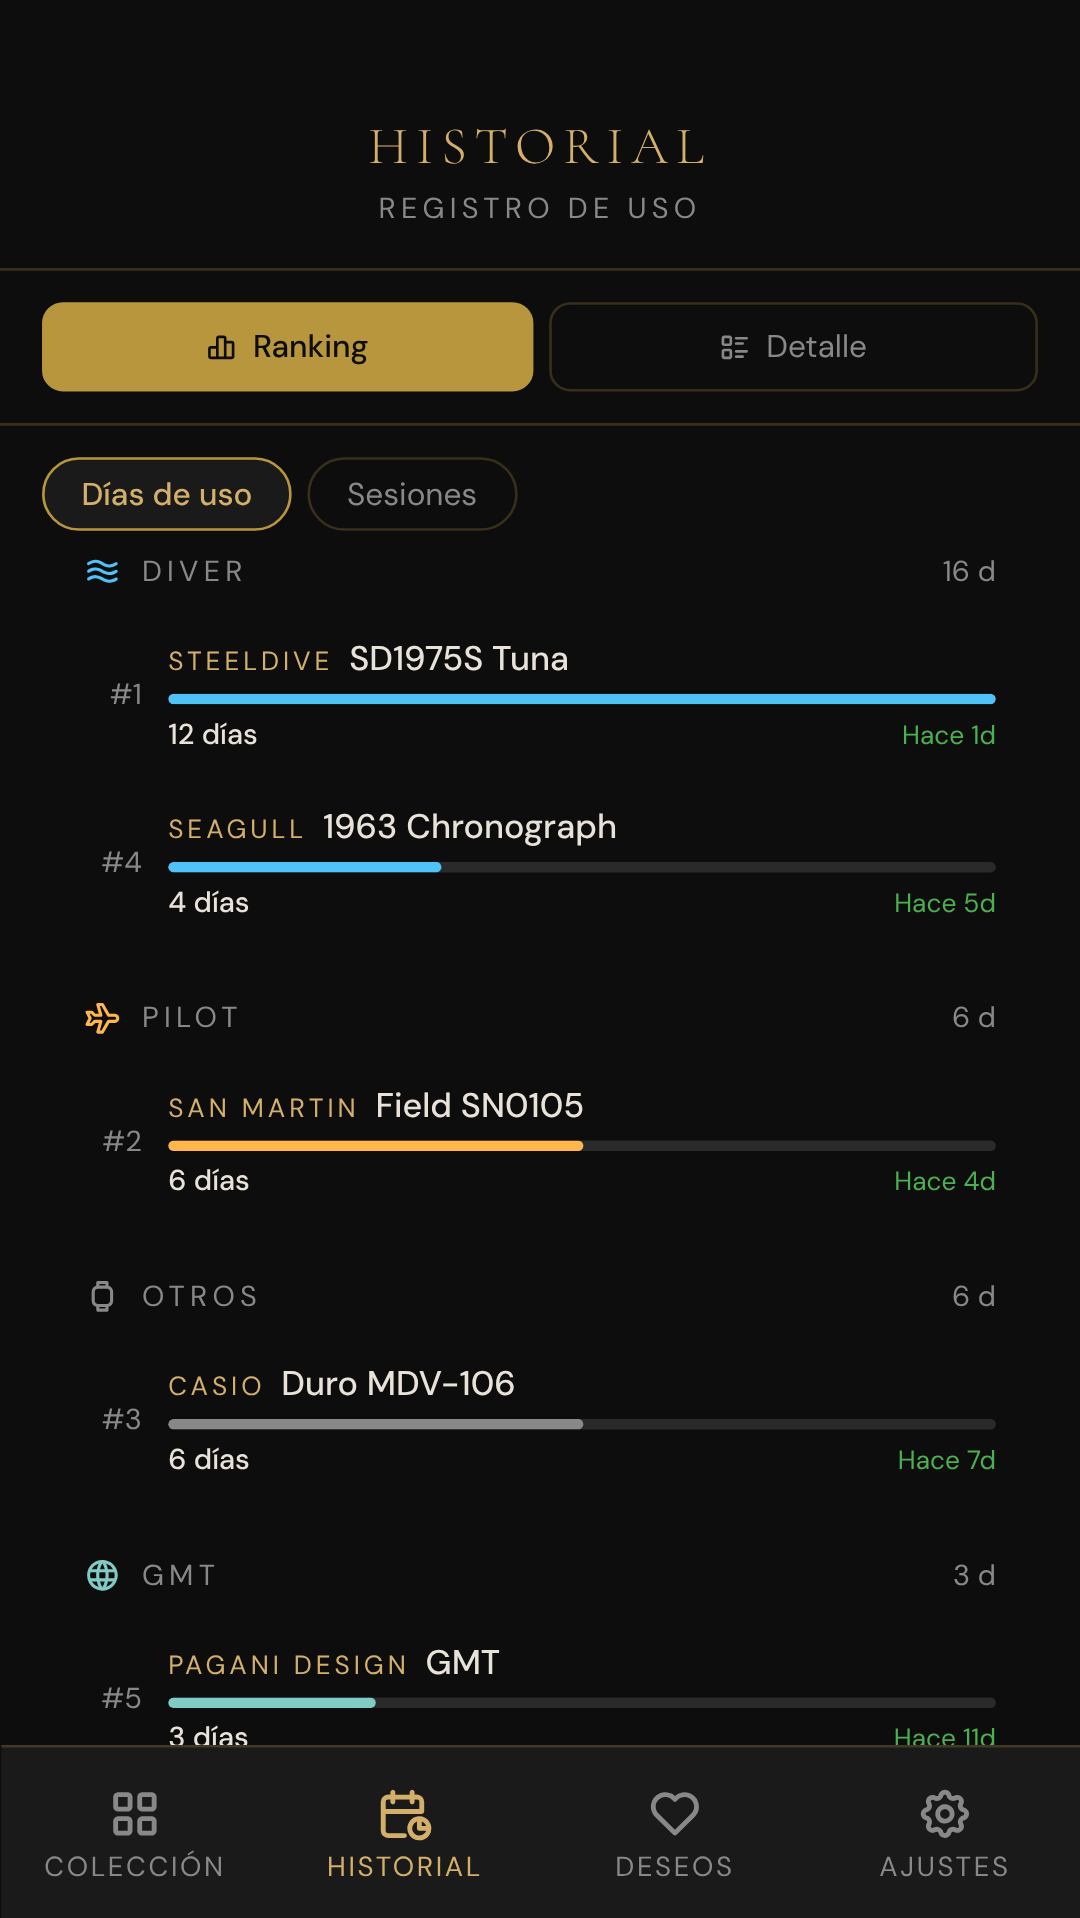
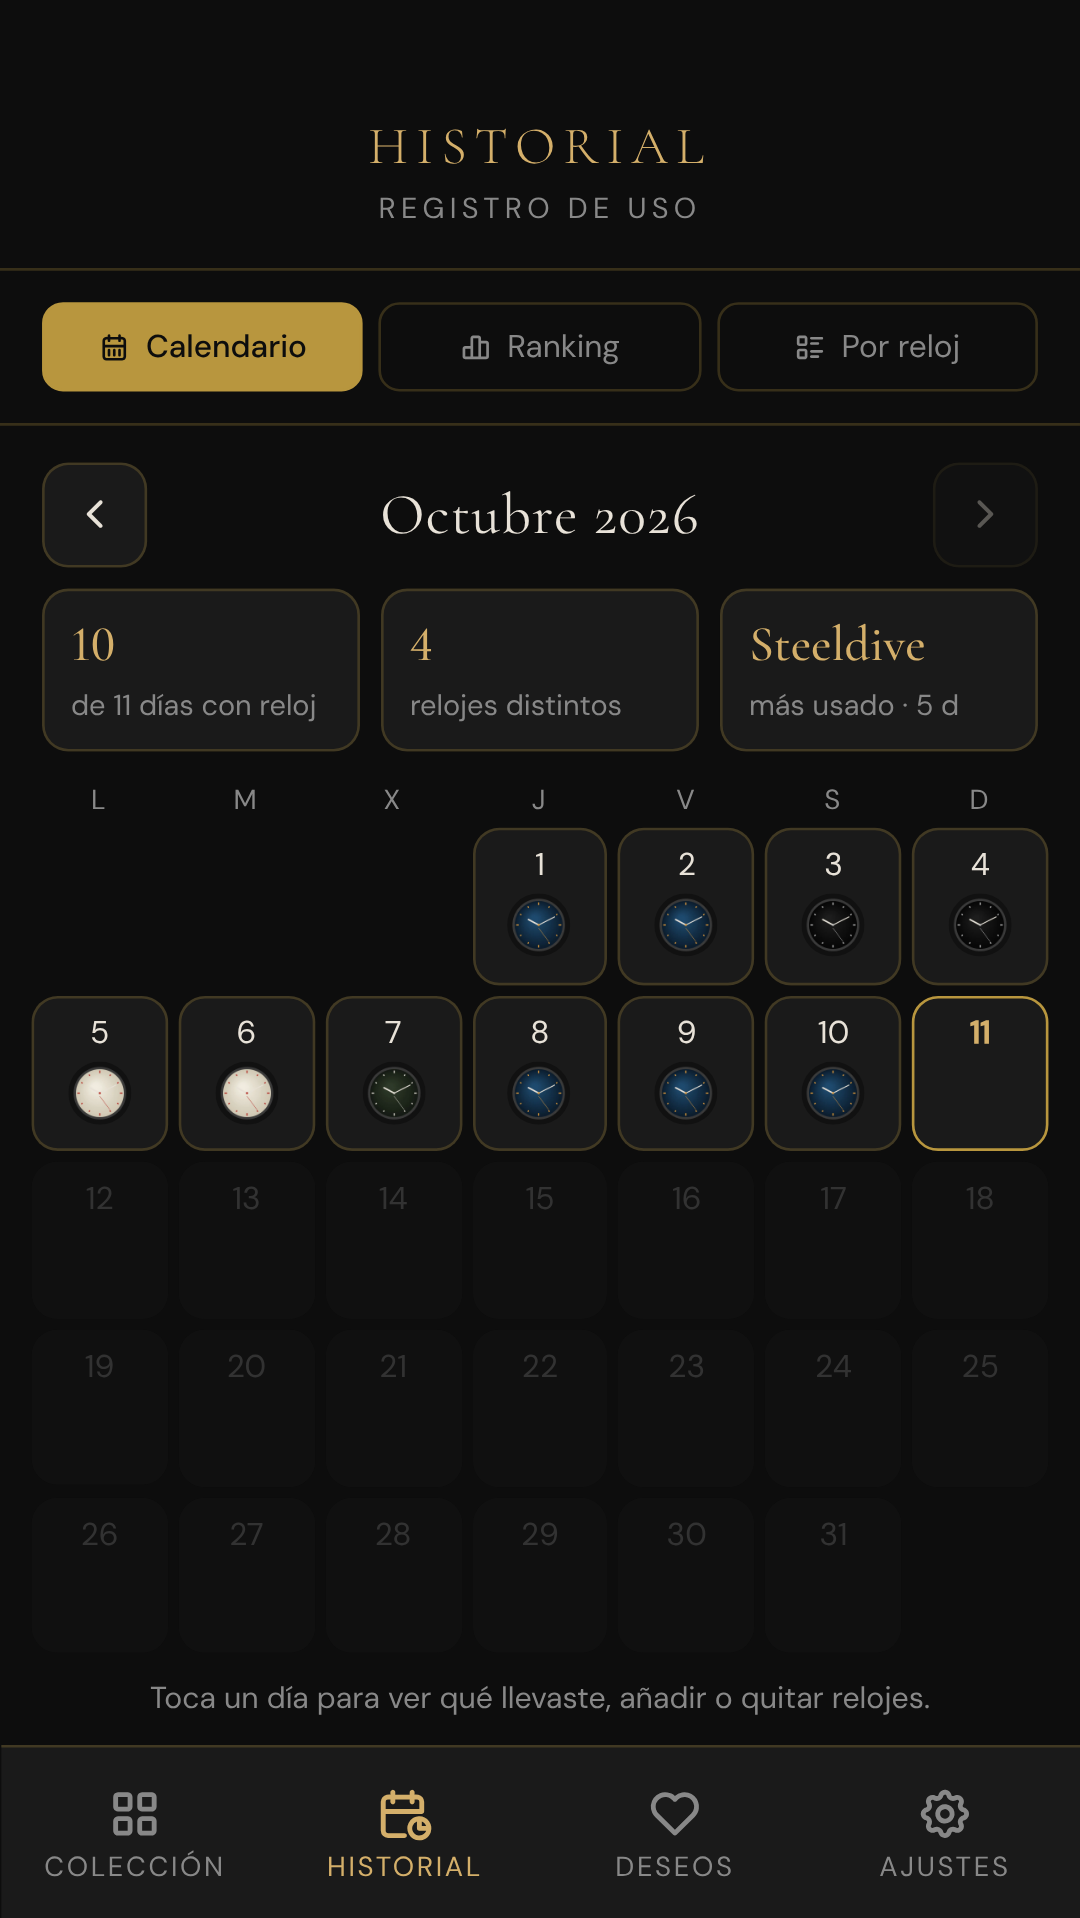
release: v2.5.0
Privacidad y seguridad de datos actualizadas para «Rellenar desde un
enlace» (Groq como proveedor), README del Worker v12, capturas de Play
con el calendario y CI con la nueva batería de pruebas.

Claude-Session: https://claude.ai/code/session_01Srs5XVbJ5hBmUFD4MyUTpg

diff --git a/privacidad.html b/privacidad.html
@@ -30,7 +30,7 @@
 <body>
 <main>
   <h1>Privacidad</h1>
-  <div class="meta">Rotor (antes Horlogerie) · Última actualización: 11 de octubre de 2026</div>
+  <div class="meta">Rotor (antes Horlogerie) · Última actualización: 11 de octubre de 2026 (v2.5)</div>
 
   <div class="box">
     <p><strong>En resumen:</strong> tu colección se guarda en tu dispositivo. Solo sale de él si activas la «Copia en la nube», y en ese caso se guarda cifrada en tránsito en Cloudflare para que puedas usarla en otros dispositivos. No hay cuentas, ni publicidad, ni analítica, ni venta de datos. Puedes borrar tus datos de la nube desde la propia app.</p>
@@ -61,8 +61,11 @@
     <li><strong>Transferencias internacionales:</strong> Cloudflare puede tratar datos fuera del Espacio Económico Europeo con las garantías de sus cláusulas contractuales tipo.</li>
   </ul>
 
+  <h2>Rellenar desde un enlace</h2>
+  <p>Si usas «Rellenar desde un enlace», el enlace que pegas (o el texto de la ficha que pegas) se envía a nuestro servicio en Cloudflare, que descarga esa página pública y manda su texto a <strong>Groq, Inc.</strong> (EE. UU.), un servicio de inteligencia artificial que extrae las especificaciones técnicas. No se envía nada de tu colección, tus fotos ni tu ID. El resultado de cada enlace se guarda 30 días en caché para no repetir la consulta. Si no usas esta función, no se envía nada.</p>
+
   <h2>Terceros</h2>
-  <p>La app no carga nada de servicios externos: fuentes, iconos y librerías van incluidos en la propia app. El código QR de tu ID se genera en tu dispositivo. No hay SDK de publicidad ni de analítica.</p>
+  <p>Fuera de las dos funciones opcionales descritas (copia en la nube y rellenar desde un enlace), la app no se comunica con servicios externos: fuentes, iconos y librerías van incluidos en la propia app. El código QR de tu ID se genera en tu dispositivo. No hay SDK de publicidad ni de analítica.</p>
 
   <h2>Copias de seguridad</h2>
   <p>«Copia de seguridad (JSON)» crea un archivo en tu dispositivo con tus datos y fotos. Ese archivo queda bajo tu control: la app no lo envía a ningún sitio.</p>

diff --git a/js/modules/updates.js b/js/modules/updates.js
@@ -1,4 +1,4 @@
-const APP_VERSION = '2.4.0'; // Must match version.json
+const APP_VERSION = '2.5.0'; // Must match version.json
 
 async function initVersionCheck() {
   // Hidden legacy elements kept for backward compatibility with other modules

diff --git a/tools/play-screenshots.py b/tools/play-screenshots.py
@@ -85,7 +85,7 @@ async def main():
         await page.evaluate("document.getElementById('view-detail').scrollTop = 150")
         await page.wait_for_timeout(200)
         await shot("2-ficha")
-        await page.evaluate("showView('history'); setHistoryMode('ranking')"); await page.wait_for_timeout(300)
+        await page.evaluate("showView('history'); setHistoryMode('calendar')"); await page.wait_for_timeout(300)
         await shot("3-historial")
         await page.evaluate(f"showView('history'); setHistoryMode('detail'); historySelectedWatch = '{ids['a']}'; historySelectedYear = null; renderHistoryDetail()")
         await page.wait_for_timeout(300)

diff --git a/README.md b/README.md
@@ -103,10 +103,12 @@ Secretos (Cloudflare → Workers → horlogerie → Settings → Variables and S
 
 | Variable | Uso | Obligatoria |
 |---|---|---|
-| `GROQ_API_KEY` | `/import-url` (hoy desactivada en la app) | No: desde la v11 la sincronización funciona sin ella |
+| `GROQ_API_KEY` | `/import-url` («Rellenar desde un enlace») | Solo para esa función; la sincronización funciona sin ella |
 | `EBAY_APP_ID`, `EBAY_CERT_ID` | Precios de eBay | No |
 
-Versión actual: **v11**. La app detecta la versión con `/health`: con v11 envía el ID de sesión en la cabecera `X-Horlogerie-User` y sincroniza la lista de deseos; con v10 sigue funcionando (ID por query, lista de deseos solo en copias JSON).
+Versión actual: **v12** (`/import-url` reconstruido: descarga la página, extrae la ficha y Groq `openai/gpt-oss-20b` la estructura; cada valor se contrasta con el texto de la página). Variables opcionales: `GROQ_MODEL`, `IMPORT_DAILY_CAP` (300 por defecto).
+
+Desde la v11: La app detecta la versión con `/health`: con v11 envía el ID de sesión en la cabecera `X-Horlogerie-User` y sincroniza la lista de deseos; con v10 sigue funcionando (ID por query, lista de deseos solo en copias JSON).
 
 Enlace KV: variable `HORLOGERIE_KV` → namespace `HORLOGERIE`. El `id` del namespace en `wrangler.toml` sigue siendo un marcador; cópialo desde el panel de Cloudflare antes de desplegar con Wrangler.
 

diff --git a/docs/play/seguridad-datos.md b/docs/play/seguridad-datos.md
@@ -30,4 +30,8 @@ Ubicación, información personal (nombre, email, dirección…), información f
 - **Anuncios:** No contiene anuncios.
 - **Acceso a la app:** Toda la funcionalidad está disponible sin restricciones.
 - **Público objetivo:** 18 años o más. La app no está diseñada para menores.
-- **Funciones con IA generativa:** No (la importación desde URL está desactivada en esta versión).
+- **Funciones con IA:** «Rellenar desde un enlace» envía el enlace (o el texto pegado) a Groq, un proveedor de IA, para extraer especificaciones. No genera contenido para otros usuarios ni conversaciones: es extracción de datos. Si Play pregunta por funciones de IA generativa, responde que la app usa IA para extraer datos de páginas que el usuario indica, a petición suya.
+
+## Rellenar desde un enlace (desde la v2.5)
+
+Lo que se envía es una URL pública o un texto que pega el usuario. Decláralo en **Actividad en la app → Otro contenido generado por el usuario** (ya marcado), añadiendo la finalidad «Funciones de la app». Es **opcional** (solo si el usuario usa la función) y **no compartido**: el Worker y Groq actúan como proveedores de servicio. Política de privacidad: sección «Rellenar desde un enlace».
